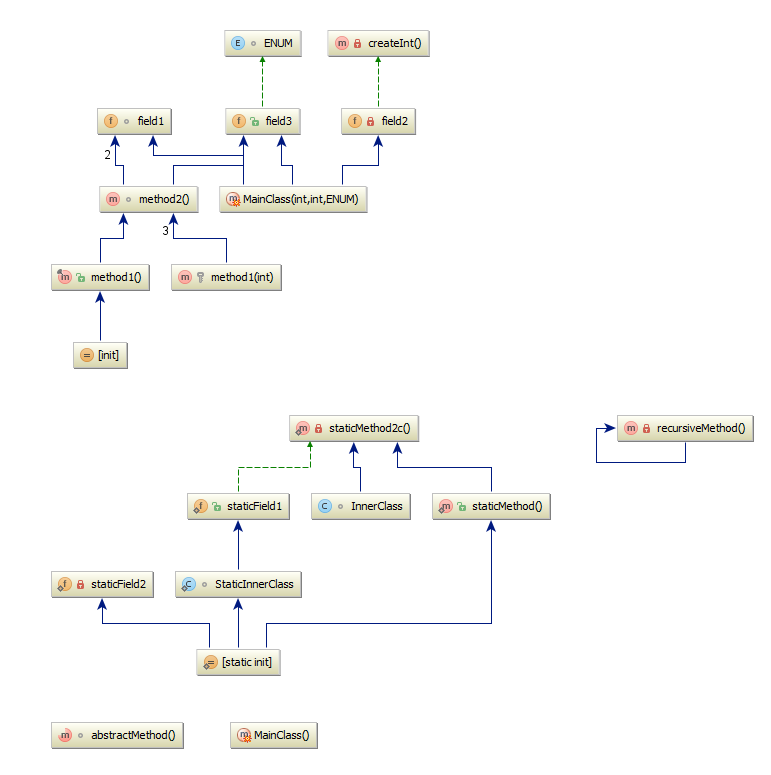
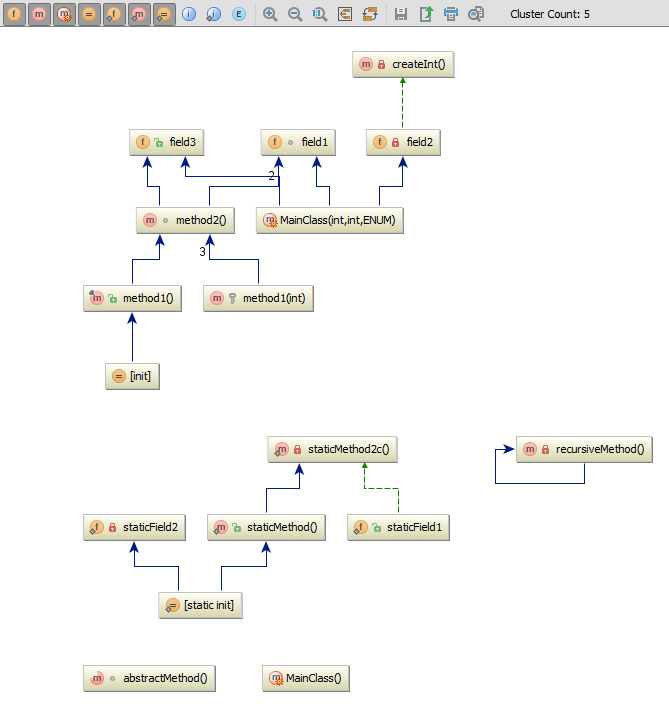
Version 1.6.0

diff --git a/README.md b/README.md
@@ -13,12 +13,12 @@ This plugin is available in IntelliJ Plugin Registry: [https://plugins.jetbrains
 - If the return value of a method is assigned to a field, then this is also threaded like a dependency and is shown in a different line style
 - As other diagrams, features available like Goto Source (F4), File Structure (Strg+F12) and Search (Ctrl+F), refactorings, Find Usages etc.
 - Nodes can be removed from graph to help analyze cohesive structure of the cluss.  
-- In pop-up menu, the cluster count is shown (Didn't found out yet how to show this in graph toolbar). 
+- The cluster count is shown in the toolbar. 
 
 ## Cohesive clusters
 If you have a suspect class and you want to analyze the cohesivnes of it this diagram helps you to visualize the [lack of cohesion of methods]
 (http://sonar-jenkins.blogspot.ch/2012/12/what-is-lcom4.html). The clusters are shown visual in the diagram. Also, the cluster count is shown
-in pop-up menu. This is useful if you have big classes in legacy projects and you are not able to see the cluster count directly in the
+in the toolbar. This is useful if you have big classes in legacy projects and you are not able to see the cluster count directly in the
 diagram.
 
 Sometimes, cohesive groups are not separeted because they are connected through common methods or fields. For example for logging purposes.
